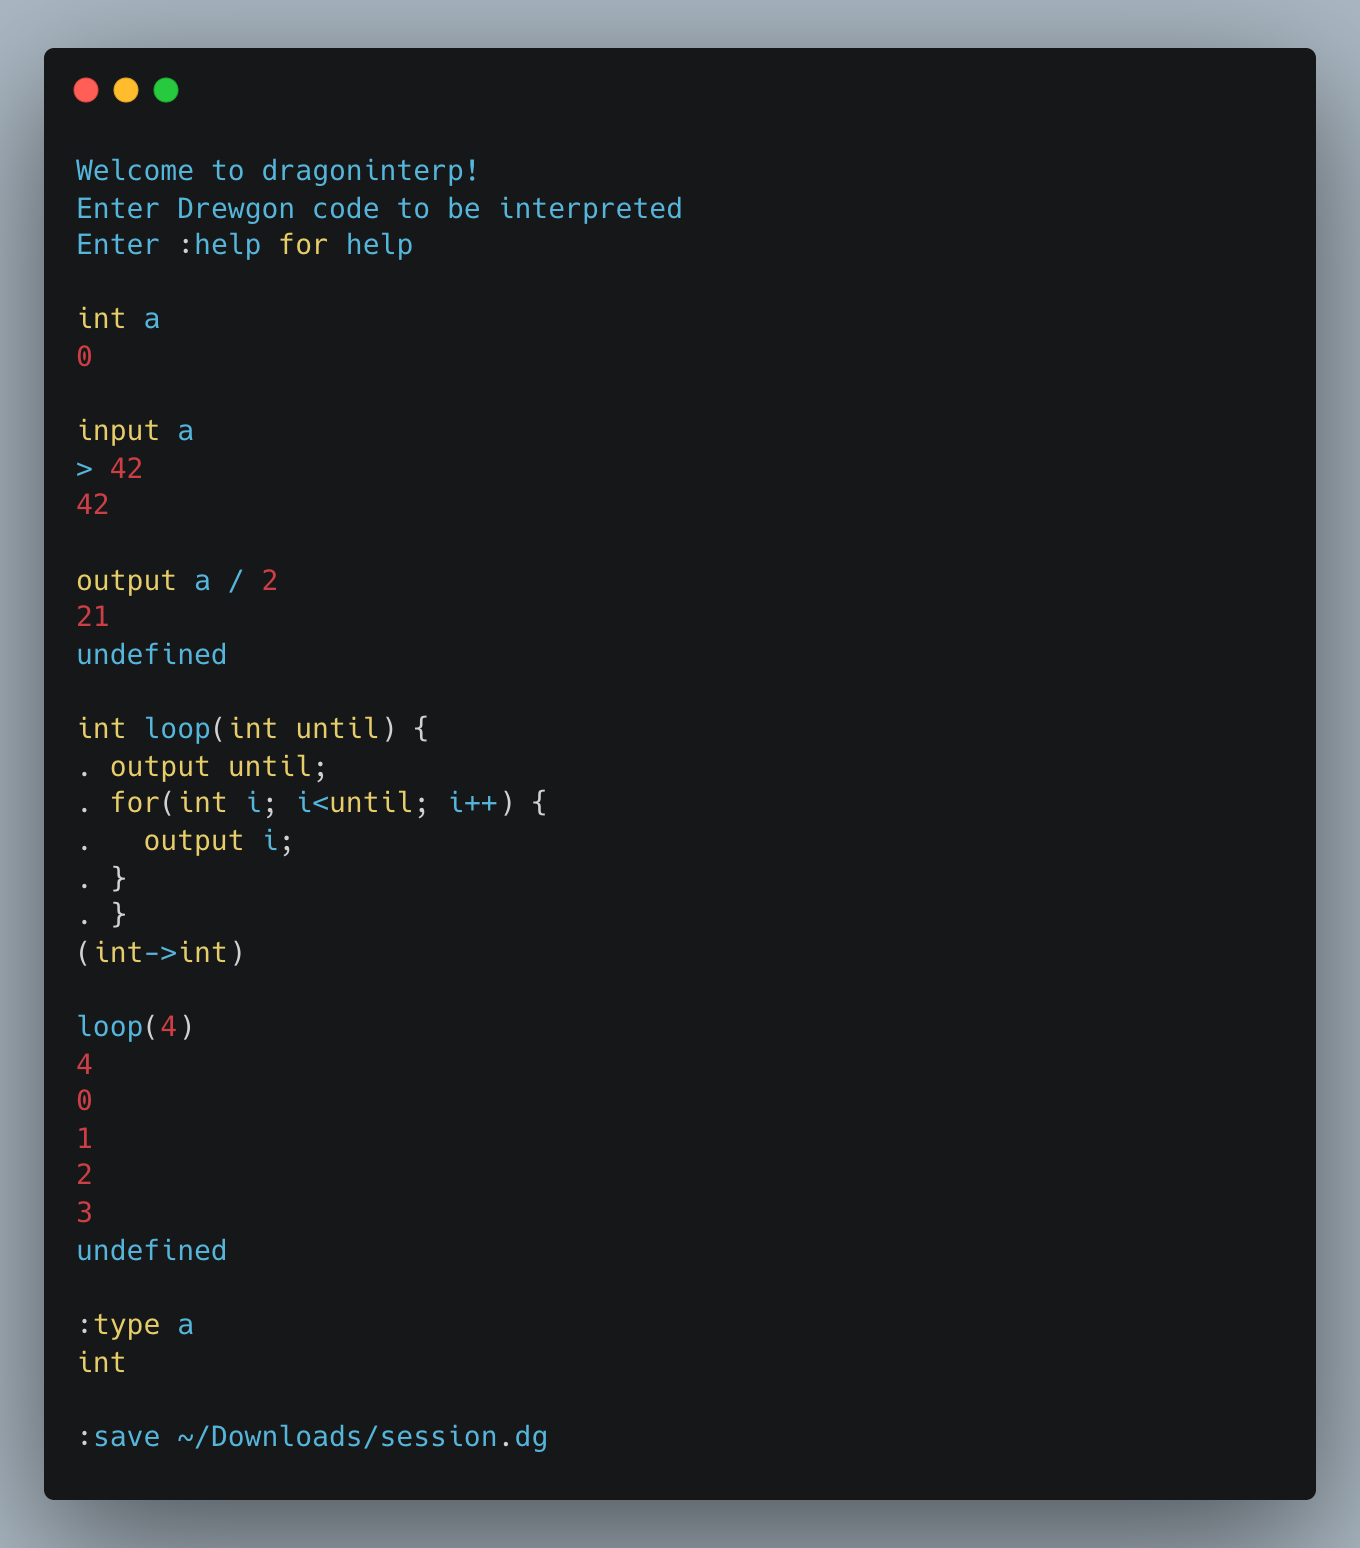
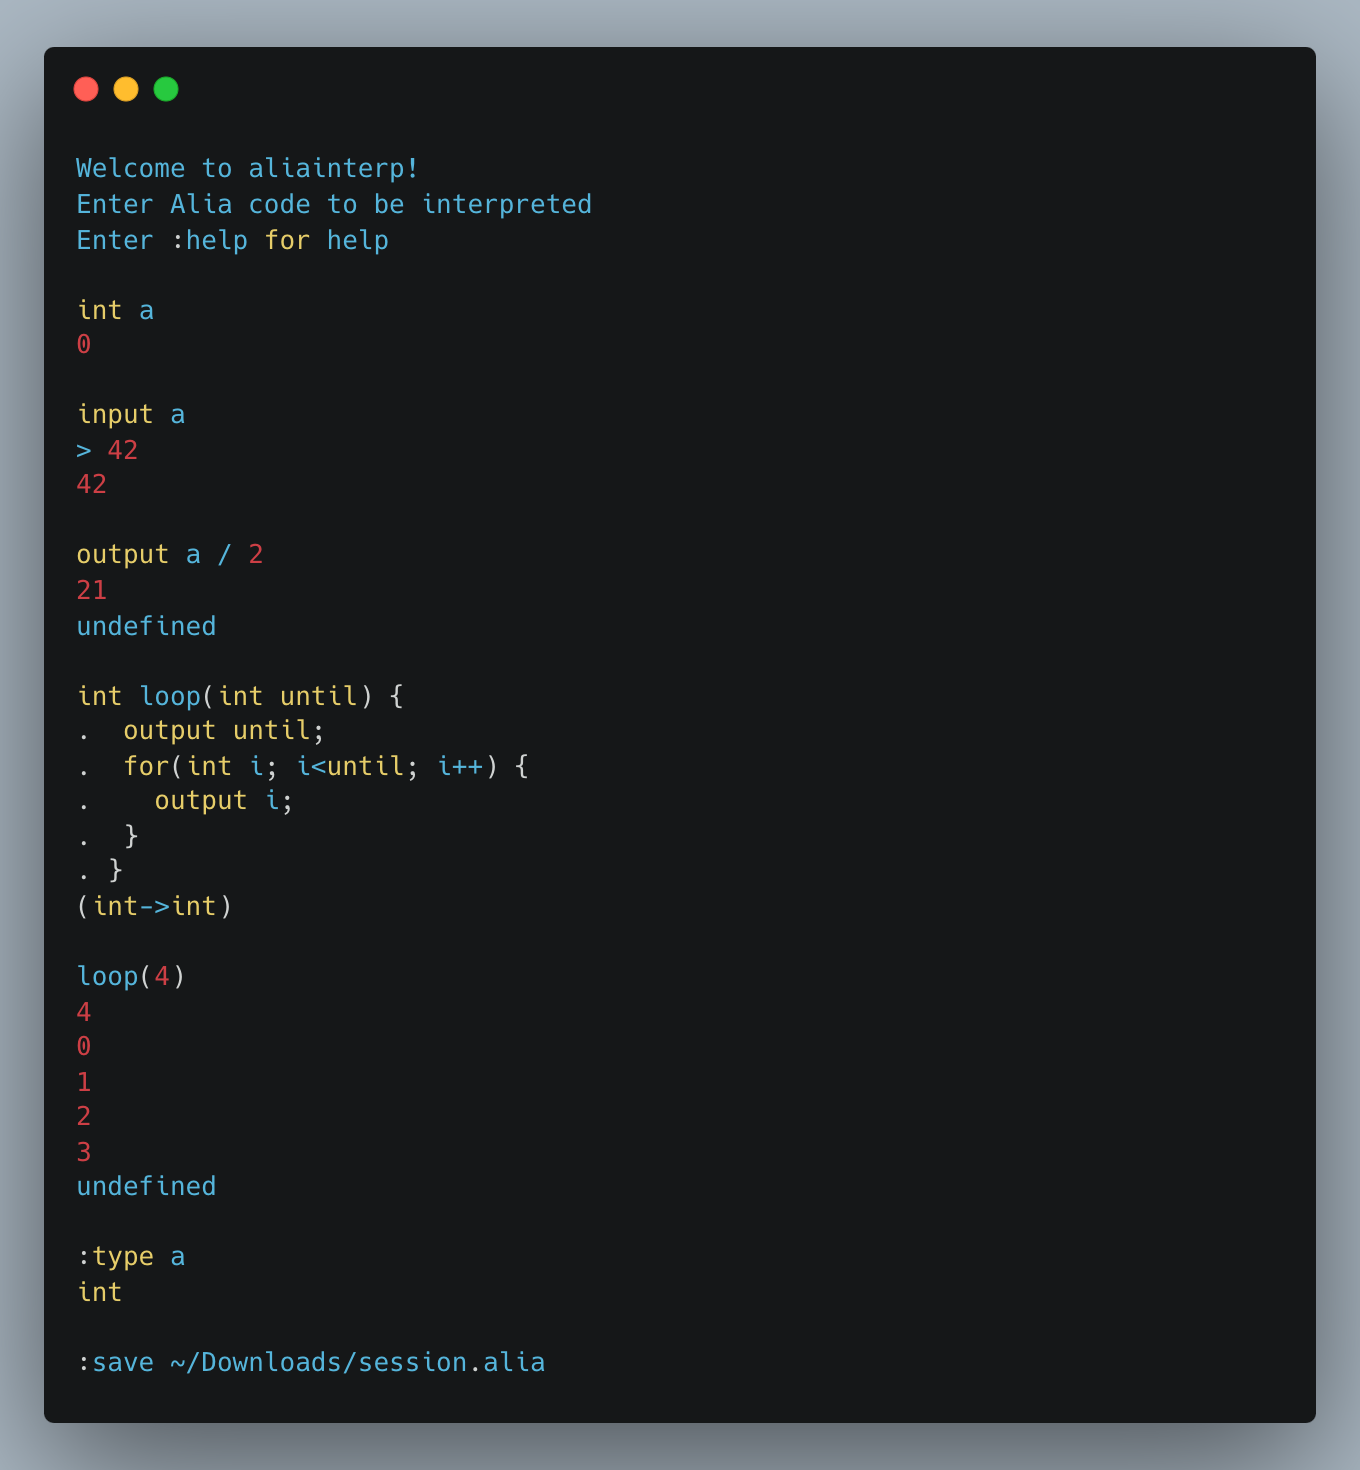
Update the screenshots in the documentation
Some screenshots still featured old language name

diff --git a/README.md b/README.md
@@ -40,7 +40,7 @@ run in an [interpreter](#running-interpreter).
 
 ## Contents
 
-- [alia](#alia)
+- [Alia](#alia)
     * [Contents](#contents)
     * [Prerequisites](#prerequisites)
     * [Installation](#installation)
@@ -220,7 +220,7 @@ Jest is used for unit testing.
 You can run it like this:
 
 ```sh
-make test
+npm test
 ```
 
 For example, automated tests for the interpreter are in
